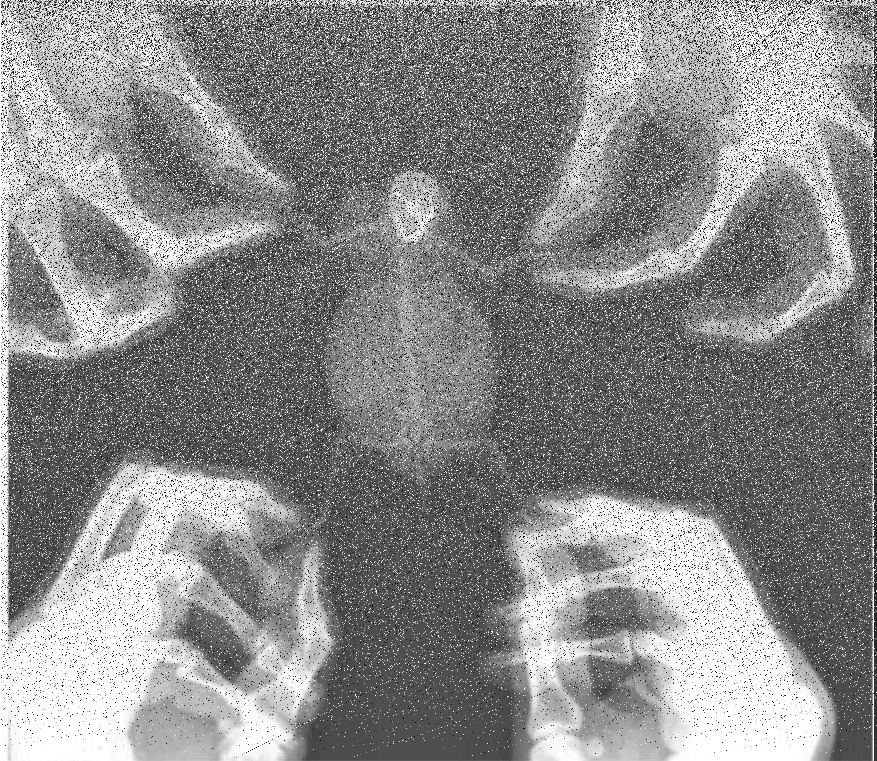
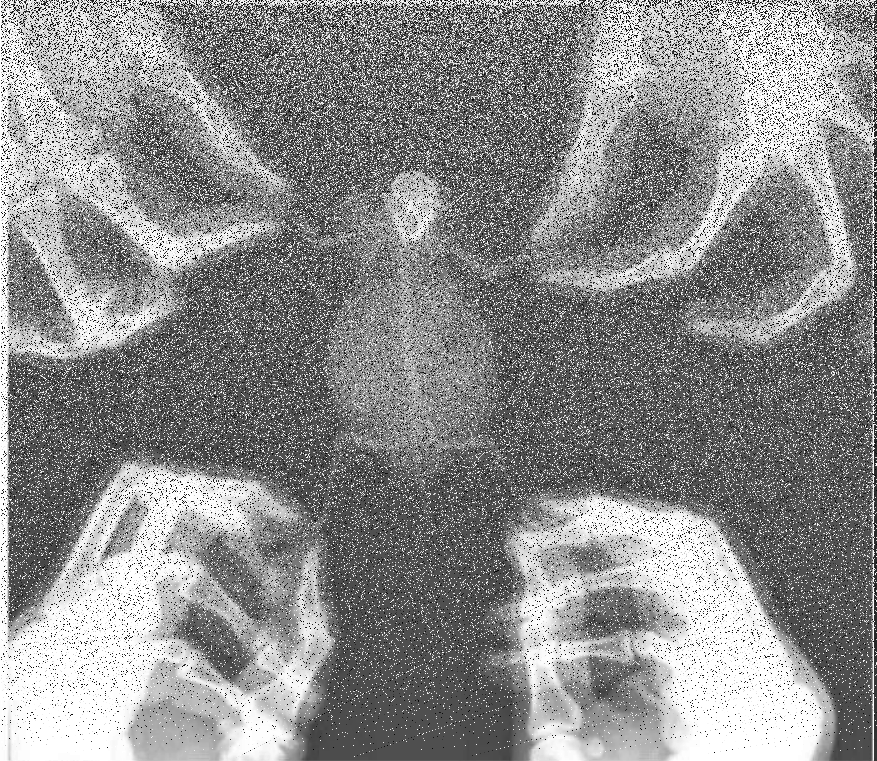
np.clip for Sobel changed

Changed region(s): [[0.0, 0.0, 1.0, 0.8765]]

diff --git a/work/main.c b/work/main.c
@@ -44,6 +44,8 @@ int main() {
             y = -MyImage[(i-1)*(j-1)] - 2*MyImage[(i-1)*j] - MyImage[(i-1)*(j+1)];
             y = y + MyImage[(i+1)*(j-1)] + 2*MyImage[(i+1)*j] + MyImage[(i+1)*(j+1)];
             MyImage[i*j] = sqrt(x*x + y*y);
+            if ((MyImage[i*j] < 128) && (MyImage[i*j] > 64)) MyImage[i*j] = MyImage[i*j] - 64;
+            if ((MyImage[i*j] < 192) && (MyImage[i*j] > 128)) MyImage[i*j] = MyImage[i*j] + 64;
             //odata[iw*i+j] = sqrt(x*x + y*y);
         }
     }
